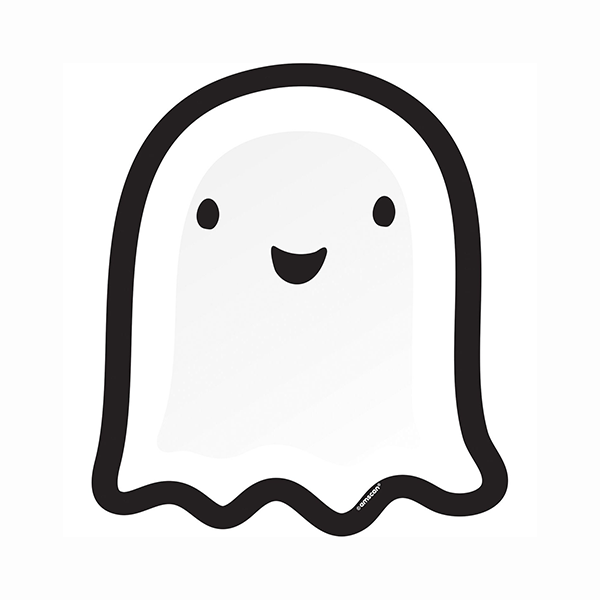
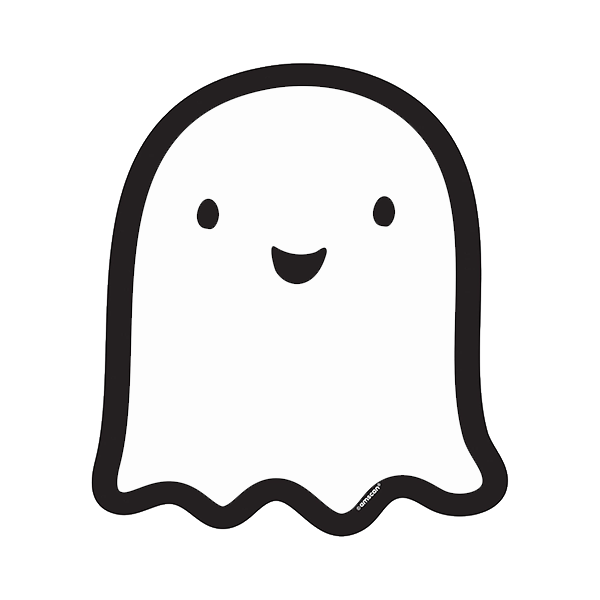
style tweaks

Changed region(s): [[0.33, 0.33, 0.36, 0.39], [0.51, 0.81, 0.54, 0.84]]

diff --git a/style.css b/style.css
@@ -32,6 +32,7 @@ h1 {
 
 p {
   margin:0;
+  text-align:center;
 }
 
 
@@ -46,7 +47,8 @@ ul {
   list-style-type:"";
 
   display:grid;
-  grid-template-columns: repeat(auto-fit, minmax(14em, 1fr));
+  grid-template-columns: repeat(auto-fit, min(16em, 100%));
+  justify-content:center;
   align-content:start;
   gap:2em;
 }
@@ -113,9 +115,9 @@ img {
   border-radius:2em;
   corner-shape:squircle;
 
-  &[src^="images/spook"] {
-    opacity:.9;
-  }
+  /* &[src^="images/spook"] {
+    opacity:.5;
+  } */
 }
 
 li p {
